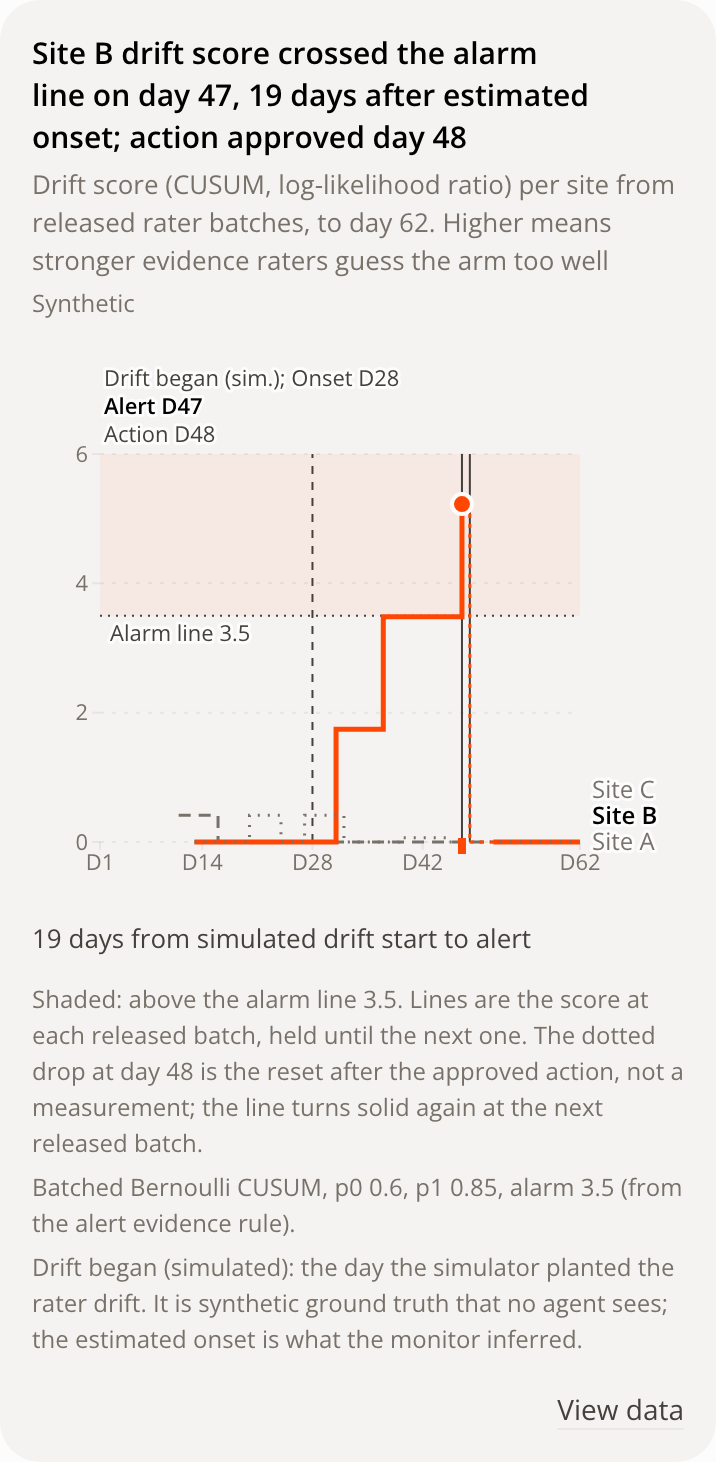
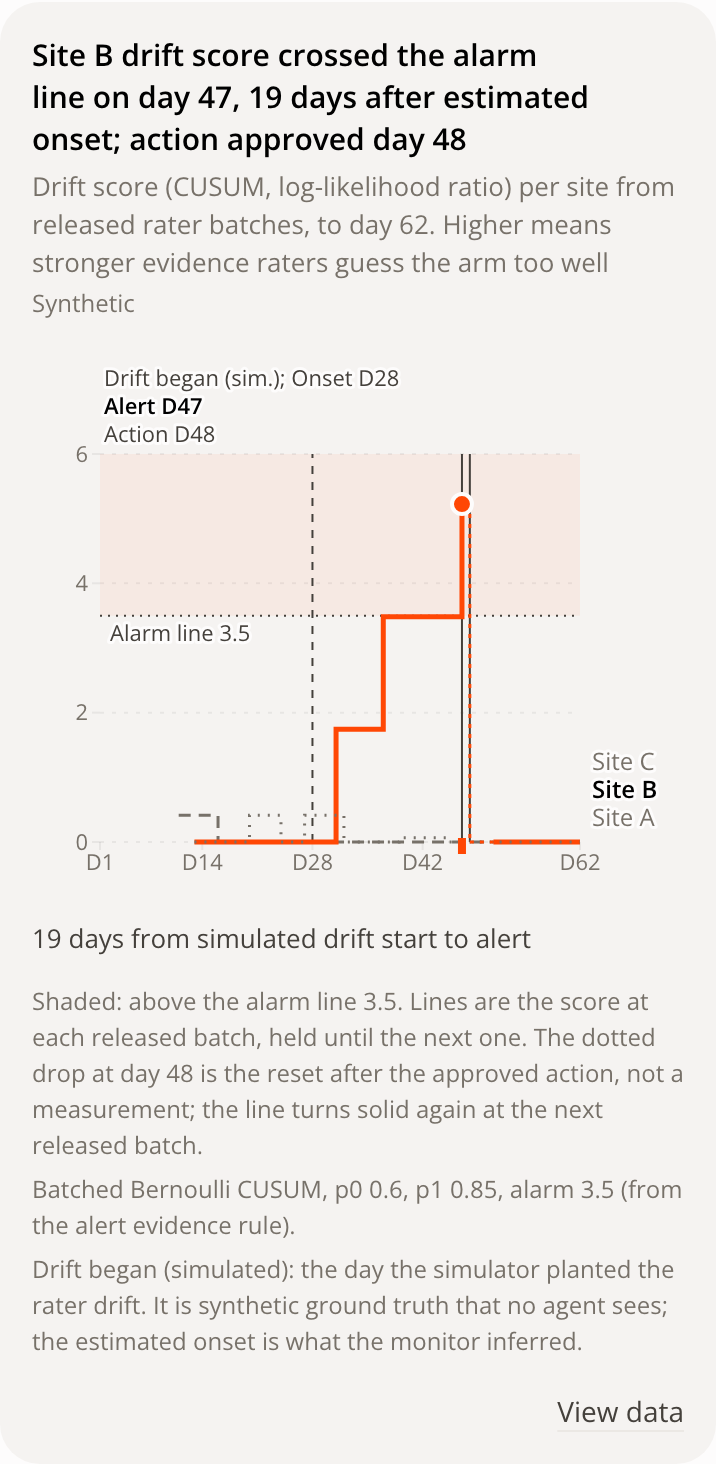
Dosing fix round 1: gate simulated truth on a decided alert, honest per-rater title, direct reference labels
S-1/S-2: Master.simulated_truth() returns None until the planted site's drift alert is decided and none is
pending, or the trial is closed; CusumChart also checks the alert status. Tests cover pending, approved,
rejected, closed and no mutation.
S-3: by-rater title states the site evidence and every named rater with n; all raters at the site share the flag.
V-9 end labels 14px apart and clear of the axis; V-11 reference lines labelled on the last panel; V-12 event
ticks drawn under labels. Uses TrialState.simulated_truth from CONTRACT2. Re-shot after images.

diff --git a/frontend/src/components/module/charts/SiteSmallMultiples.tsx b/frontend/src/components/module/charts/SiteSmallMultiples.tsx
@@ -371,10 +371,10 @@ function Panel({ title, flagged, points, today, height, mode, alarm, events, com
             <YAxis {...axisProps} domain={[0, 1]} ticks={[0, 0.5, 1]} width={38}
               tickFormatter={(v: number) => `${Math.round(v * 100)}%`} />
             <ReferenceLine y={0.5} stroke={chartTokens.reference} strokeDasharray={lineStyles.reference} strokeWidth={1}
-              label={labelRefs ? { value: "Coin flip 50%", position: "insideBottomRight", className: "dchart-reflabel" } : undefined} />
+              label={labelRefs ? { value: "Coin flip 50%", position: "insideTopRight", className: "dchart-reflabel" } : undefined} />
             {alarm && (
               <ReferenceLine y={0.6} stroke={chartTokens.reference} strokeDasharray={lineStyles.threshold} strokeWidth={1}
-                label={labelRefs ? { value: "Alarm reference 60%", position: "insideTopRight", className: "dchart-reflabel" } : undefined} />
+                label={labelRefs ? { value: "Alarm reference 60%", position: "insideBottomRight", className: "dchart-reflabel" } : undefined} />
             )}
             {events.map((e) => (
               <ReferenceLine key={`${e.kind}-${e.day}`} x={e.day} stroke={chartTokens.reference} strokeWidth={1}

diff --git a/frontend/src/components/module/charts/CusumChart.tsx b/frontend/src/components/module/charts/CusumChart.tsx
@@ -26,13 +26,6 @@ export interface ModuleChartComponentProps {
   height?: number;
 }
 
-interface SimTruth {
-  synthetic?: boolean;
-  label?: string;
-  drift_site?: string;
-  drift_onset_day?: number;
-}
-
 interface Release {
   day: number;
   score: number;
@@ -156,7 +149,7 @@ function Overlay(props: Record<string, unknown>) {
 export function CusumChart({ chart, trialId, height }: ModuleChartComponentProps): JSX.Element {
   const { data: rec, loading, error } = useRecordSections(trialId, ["blinding_metrics", "alerts", "actions"]);
   const { state } = useTrial();
-  const truth = ((state as unknown as { simulated_truth?: SimTruth | null } | null)?.simulated_truth) ?? null;
+  const truth = state?.simulated_truth ?? null;
   const [ref, width] = useWidth<HTMLDivElement>();
   const compact = width > 0 && width < 560;
   const [tipRef, tipClosed] = useTooltipDismiss<HTMLDivElement>();
